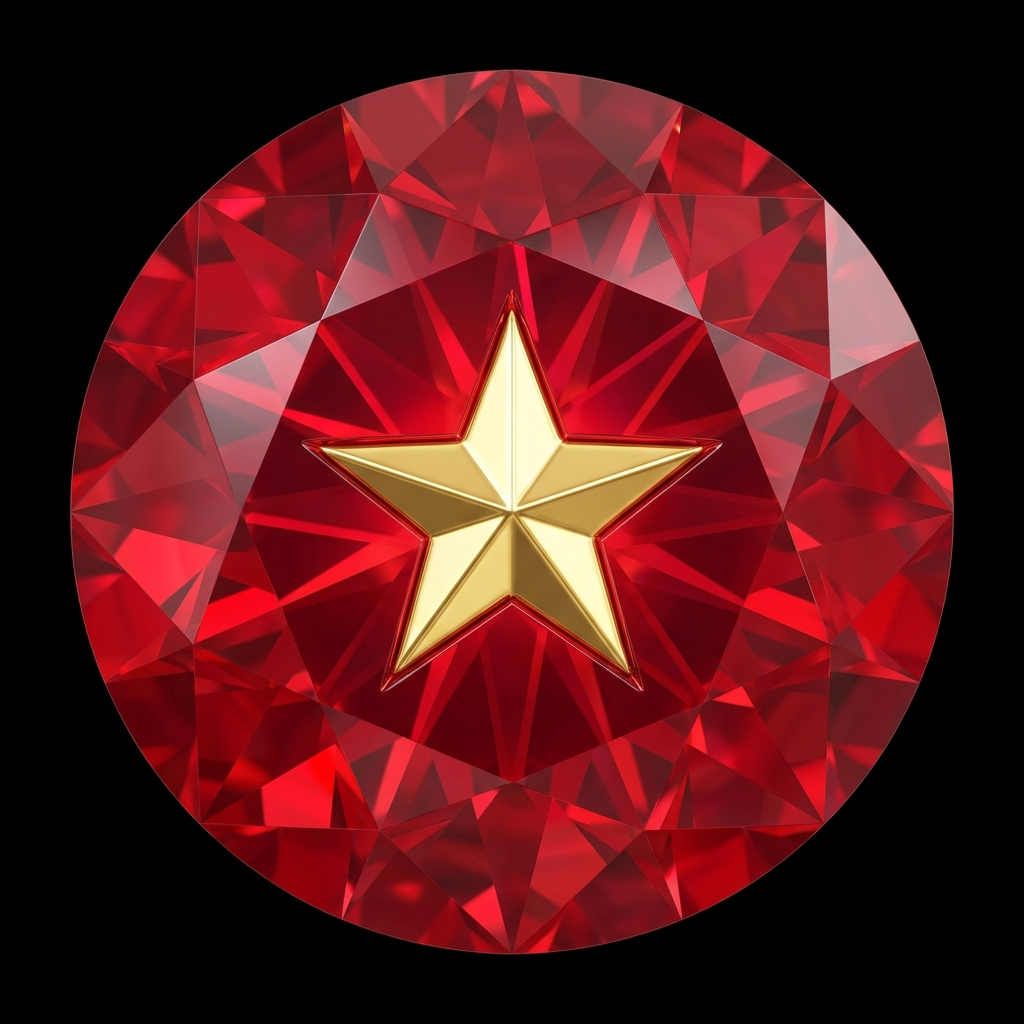
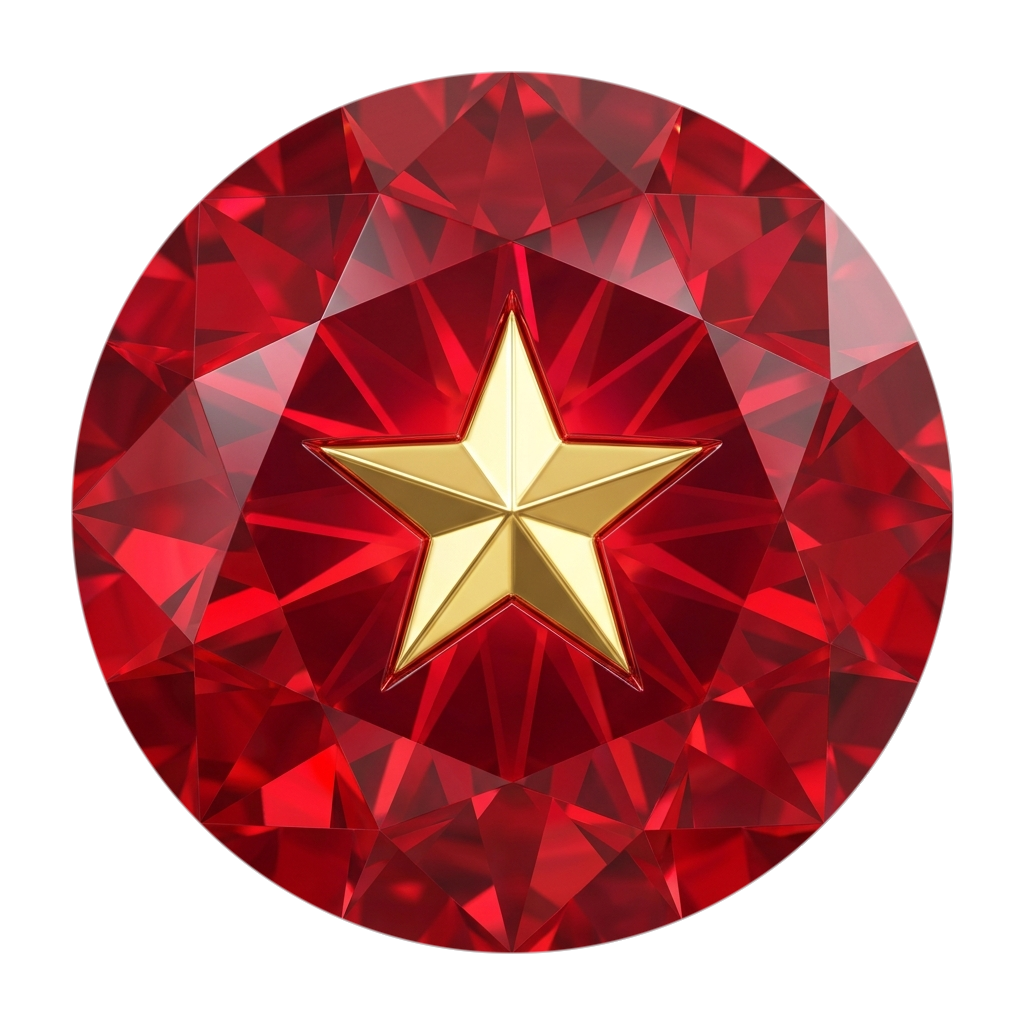
feat: transparent backgrounds for assets, rename tab to Koinz, clean header buttons, and apply purple-pink gradient to rankings page

diff --git a/lib/screens/rankings_page.dart b/lib/screens/rankings_page.dart
@@ -76,8 +76,6 @@ class _RankingsPageState extends State<RankingsPage> {
     final List<Map<String, dynamic>> remainingList = rankings.skip(3).toList();
 
     return Scaffold(
-      backgroundColor:
-          const Color(0xFF060112), // Premium Ultra Dark Purple Background
       appBar: AppBar(
         backgroundColor: Colors.transparent,
         elevation: 0,
@@ -91,41 +89,40 @@ class _RankingsPageState extends State<RankingsPage> {
           ),
         ),
         centerTitle: true,
-        actions: [
-          IconButton(
-            icon: const Icon(Icons.refresh_rounded, color: Colors.white70),
-            onPressed: _loadRankings,
-          ),
-        ],
       ),
-      body: wallet.isLoading && rankings.isEmpty
-          ? const Center(
-              child: CircularProgressIndicator(
-                valueColor: AlwaysStoppedAnimation<Color>(Color(0xFFDA22FF)),
-              ),
-            )
-          : Column(
-              children: [
-                Expanded(
-                  child: RefreshIndicator(
-                    onRefresh: () async => _loadRankings(),
-                    color: const Color(0xFFDA22FF),
-                    backgroundColor: const Color(0xFF0F0826),
-                    child: ListView(
-                      padding: const EdgeInsets.symmetric(
-                          horizontal: 16, vertical: 12),
-                      children: [
-                        // Title Section
-                        const Text(
-                          "أقوى المراهنين بالكونزات المدفوعة 🏆",
-                          textAlign: TextAlign.center,
-                          style: TextStyle(
-                            fontSize: 14,
-                            color: Colors.white70,
-                            fontWeight: FontWeight.w500,
-                          ),
-                        ),
-                        const SizedBox(height: 16),
+      extendBodyBehindAppBar: true,
+      body: Container(
+        decoration: const BoxDecoration(
+          gradient: LinearGradient(
+            colors: [
+              Color(0xFF0E021F), // Dark Purple
+              Color(0xFF23073E), // Purple
+              Color(0xFF4A0A3D), // Pink-Plum
+              Color(0xFF0E021F), // Dark Purple
+            ],
+            begin: Alignment.topLeft,
+            end: Alignment.bottomRight,
+          ),
+        ),
+        child: SafeArea(
+          bottom: false,
+          child: wallet.isLoading && rankings.isEmpty
+              ? const Center(
+                  child: CircularProgressIndicator(
+                    valueColor: AlwaysStoppedAnimation<Color>(Color(0xFFDA22FF)),
+                  ),
+                )
+              : Column(
+                  children: [
+                    Expanded(
+                      child: RefreshIndicator(
+                        onRefresh: () async => _loadRankings(),
+                        color: const Color(0xFFDA22FF),
+                        backgroundColor: const Color(0xFF0F0826),
+                        child: ListView(
+                          padding: const EdgeInsets.symmetric(
+                              horizontal: 16, vertical: 12),
+                          children: [
 
                         // Top 3 Podium
                         if (topThree.isNotEmpty) ...[
@@ -361,10 +358,12 @@ class _RankingsPageState extends State<RankingsPage> {
                       ),
                     ),
                   ),
+                  ],
                 ],
-              ],
+              ),
             ),
-    );
+          ),
+        );
   }
 
   Widget _buildListAvatar(String nickname, String gender) {

diff --git a/lib/screens/game_screen.dart b/lib/screens/game_screen.dart
@@ -264,24 +264,6 @@ class _GameScreenState extends State<GameScreen> with TickerProviderStateMixin {
         appBar: AppBar(
           backgroundColor: Colors.transparent,
           elevation: 0,
-          leading: IconButton(
-            icon: const Icon(Icons.help_outline_rounded, color: Colors.white70),
-            onPressed: () {},
-          ),
-          title: Container(
-            padding: const EdgeInsets.symmetric(horizontal: 16, vertical: 4),
-            decoration: BoxDecoration(
-              color: Colors.black26,
-              borderRadius: BorderRadius.circular(20),
-            ),
-            child: Text("جولة: ${game.sequenceNumber}", style: const TextStyle(fontSize: 14, color: Colors.amber)),
-          ),
-          actions: [
-            IconButton(
-              icon: const Icon(Icons.emoji_events_rounded, color: Colors.amber),
-              onPressed: () => _scaffoldKey.currentState?.openEndDrawer(),
-            ),
-          ],
         ),
         endDrawer: _buildWinnersDrawer(wallet),
         body: Stack(
@@ -634,7 +616,7 @@ class _GameScreenState extends State<GameScreen> with TickerProviderStateMixin {
         ),
         const SizedBox(width: 12),
         _buildCurrencyTab(
-          label: "الكونز المدفوع",
+          label: "الكونزات",
           icon: Image.asset('assets/coin.png', width: 16, height: 16),
           isActive: _betCurrency == "CASH",
           disabled: isFreeLocked,
@@ -760,44 +742,6 @@ class _GameScreenState extends State<GameScreen> with TickerProviderStateMixin {
                 _betCurrency == "FREE"
                     ? Image.asset('assets/diamond.png', width: 16, height: 16)
                     : Image.asset('assets/coin.png', width: 16, height: 16),
-                const SizedBox(width: 8),
-                InkWell(
-                  onTap: () async {
-                    final auth = Provider.of<AuthProvider>(context, listen: false);
-                    if (auth.token != null) {
-                      final amount = _betCurrency == "FREE" ? 100000.0 : 10000.0;
-                      final success = await wallet.requestTestRefill(auth.token!, amount, _betCurrency);
-                      if (success && mounted) {
-                        ScaffoldMessenger.of(context).showSnackBar(
-                          SnackBar(
-                            content: Text("تم إضافة +${amount.toStringAsFixed(0)} ${_betCurrency == 'FREE' ? 'ماسة' : 'كونز'} بنجاح للاختبار!"),
-                            backgroundColor: Colors.green,
-                            duration: const Duration(seconds: 2),
-                          ),
-                        );
-                      }
-                    }
-                  },
-                  child: Container(
-                    padding: const EdgeInsets.symmetric(horizontal: 8, vertical: 4),
-                    decoration: BoxDecoration(
-                      color: Colors.amber.withValues(alpha:0.2),
-                      borderRadius: BorderRadius.circular(12),
-                      border: Border.all(color: Colors.amber, width: 1),
-                    ),
-                    child: const Row(
-                      mainAxisSize: MainAxisSize.min,
-                      children: [
-                        Icon(Icons.add_circle_outline, size: 14, color: Colors.amber),
-                        SizedBox(width: 2),
-                        Text(
-                          "شحن تجريبي",
-                          style: TextStyle(color: Colors.amber, fontSize: 11, fontWeight: FontWeight.bold),
-                        ),
-                      ],
-                    ),
-                  ),
-                ),
               ],
             ),
 